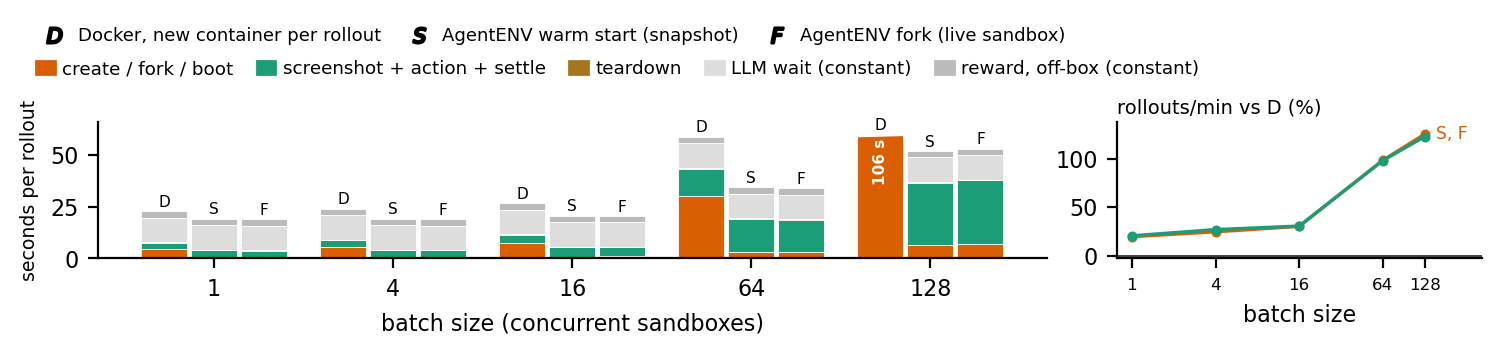
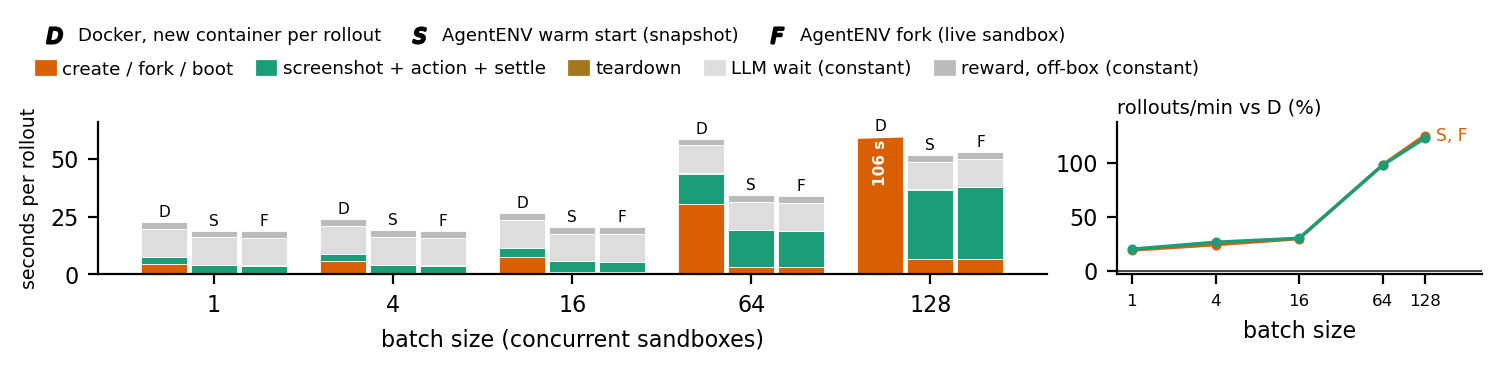
report: shorter, conclusion-first text and merged action call in Figure 3
Removes the plan section, states conclusions instead of repeating numbers
that the figures already show, rewrites the comparison of GUI and CLI
results as one causal explanation, and merges the action call and the wait
for its effect into one component in Figure 3.

diff --git a/report/report_en_agentenv_short_sep_19.md b/report/report_en_agentenv_short_sep_19.md
@@ -4,74 +4,74 @@
 
 ## 1. AgentENV features and SWE-bench results
 
-- [AgentENV](https://github.com/kvcache-ai/AgentENV) is the open-source sandbox service used for Kimi K3's agentic RL. It provides one Firecracker microVM per sandbox through an E2B-compatible API and stores every disk and memory image as copy-on-write layers.
-- **Two restore methods.** Both use the same restore procedure: a pre-spawned VM, with memory pages loaded on demand from one shared host copy.
-    - **Warm start from a snapshot (S).** A snapshot checkpoints a sandbox (memory + disk) once, in advance. Each rollout restores a new sandbox from it, replacing boot + task setup for states known in advance, such as a GRPO group at step 0.
-    - **Fork of a live sandbox (F).** Fork captures a running sandbox and restores N children while the source keeps running. It replaces prefix replay in N new sandboxes for states available only at run time, such as branching within a trajectory (tree rollouts).
-- **Cold start (C)** boots a new VM from the container image without a snapshot. **Pause/resume** releases RAM and CPU during the LLM wait (not evaluated here).
+- [AgentENV](https://github.com/kvcache-ai/AgentENV) is the open-source sandbox service for Kimi K3's agentic RL. It provides one Firecracker microVM per sandbox through an E2B-compatible API and stores disk and memory images as copy-on-write layers.
+- **Both restore methods use a pre-spawned VM** that loads memory pages on demand from one shared host copy.
+    - **AgentENV warm start (S) restores a snapshot**, a checkpoint of a sandbox's memory and disk captured once in advance. Each rollout restores a new sandbox from it, replacing boot + task setup for states known beforehand, such as a GRPO group at step 0.
+    - **AgentENV fork (F) captures a live sandbox** and restores N children while the source runs. It replaces prefix replay for states available only at runtime, such as a branch point in the middle of a trajectory (tree rollouts).
+- **AgentENV cold start (C) boots a new VM** from the container image without a snapshot. Pause/resume releases RAM and CPU during LLM waits, but was not evaluated.
 
 **Experiment**
 
-- **Workload.** A SWE-bench Verified task django 10880 rollout has 5 agent steps. Each step is a 3 s LLM wait followed by one shell tool call. Step 4 applies the fix. B rollouts start together on all 20 cores, B = 1 to 256, 3 rounds per point.
-- **Docker baseline (D).** Each rollout uses a new container. We prepare the image with `docker commit` after running the task's tests once in a container, preserving build products and caches. We take the AgentENV snapshot at the same point. A rollout uses `docker run`, one `docker exec` per tool call, then `docker rm`. This is the strongest container baseline, but a Docker image stores only files, not running processes.
-- **Tree rollouts.** One trunk runs 3 steps (tests in the third), then B branches run 3 more steps each. D and S must first replay the trunk in every branch. F forks the trunk (B = 256: 1 round).
-- **Fixed times.** The LLM wait (15 s) and reward time (3 s) are constants. The LLM and reward computation run on other servers, as in most RL systems: judges on GPU clusters, test-based rewards in a separate or forked evaluation sandbox.
-- **Verification.** Every rollout is verified by its final diff hash. The official grader marked that diff resolved. Of 8,817 rollouts, the only failures are 9 cold starts whose sandbox did not start.
+- Each SWE-bench Verified django 10880 rollout has 5 steps. Each step is a 3 s LLM wait followed by one shell tool call. Step 4 applies the fix. B rollouts start together on 20 cores, with B = 1 to 256 and 3 rounds per point.
+- **Docker (D) creates a new container per rollout.** After tests run once, `docker commit` preserves build products and caches. We snapshot AgentENV at the same point. Rollouts use `docker run`, one `docker exec` per tool call, then `docker rm`. This is the strongest container baseline, but images store files, not running processes.
+- Tree rollouts run a trunk of 3 steps, with tests in the third, then B branches of 3 steps each. D and S first replay the trunk in every branch. F forks it, with 1 round at B = 256.
+- LLM wait and reward time are fixed at 15 s and 3 s per rollout. As in most RL systems, LLM and reward computation run elsewhere: judges use GPU clusters, and test-based rewards use separate or forked evaluation sandboxes.
+- We verify every rollout by its final diff hash. The official grader marked that diff resolved. Among 8,817 rollouts, only 9 cold starts failed to start their sandboxes.
 
 ![](agentenv_sep_19/figures/swe_scale.png)
 
-*Figure 1. Left: median rollout time by phase. Bars cut at the axis limit show their totals. Right: rollouts/min relative to D, for S at step 0 and F in tree rollouts.*
+*Figure 1. The left shows median rollout time by phase and totals for truncated bars. The right shows throughput relative to D for S at step 0 and F in tree rollouts.*
 
 **Results**
 
-- **Docker (D) matches AgentENV at small batches.** For rollouts starting at step 0, performance is within 4% up to B = 16. A command-line (CLI) sandbox is ready in 0.2 to 0.7 s on either system, compared with 15 s of LLM wait.
-- **Warm start (S) benefits large batches only.** Throughput gains over D are +8% (B = 64), +15% (128), +19% (256). At B = 128, Docker's creation and removal bursts take 3.1 s + 2.0 s per rollout, compared with AgentENV's 1.9 s + 0.06 s.
-- **Fork (F) matches warm start at step 0** up to B = 128 (within 2 points). At 256 its gain over D is smaller (+10% against +19%). Each fork call allows at most 100 children, so we issued 4 sequential calls. Tool calls in forked sandboxes were also slower (2.8 s against 1.8 s per rollout).
-- **Fork (F) improves tree rollout throughput.** All branches are ready in 0.6 to 2.5 s, compared with 3 to 27 s for replay up to B = 128 (6.9 s versus 56 s at 256). Rollouts/min increase over D by **+8% to +11% (B ≤ 16), +44% (64), +84% (128), +139% (256)**.
-- **Cold start (C) is slower than Docker.** It is 6% to 15% slower up to B = 64, 23% at 128, 44% at 256, where it needs 80 GB. It also uses the original, unprepared image.
-- **Tool calls are slower on AgentENV.** At B = 128, a tool call takes 0.12 s (p95 1.0 s), compared with 0.07 s (p95 0.13 s) on Docker.
-- **Capacity (one probe).** After raising the kernel's `ublk` device limit, 511 of 512 CLI sandboxes ran in 22 GB. The default device limit, 64, allows about 60 sandboxes.
+- **For rollouts that start at step 0, D matches AgentENV within 4% up to B = 16.** Command-line (CLI) startup is short relative to LLM wait (Figure 1).
+- **S benefits large batches only**, increasing throughput up to +19% over D. At large batches Docker's container creation and removal take longer than AgentENV's restore and deletion (Figure 1, left).
+- **F matches S at step 0** up to B = 128, within 2 points. At B = 256, it gains less over D (+10% against +19%). We issued 4 sequential fork calls, each limited to 100 children. Tool calls were also slower in forked sandboxes (2.8 s against 1.8 s per rollout).
+- **F improves tree rollout throughput by up to +139% over D.** Branches become ready sooner than with replay (Figure 1).
+- **C is slower than Docker** and needs 80 GB at B = 256. It also uses the original, unprepared image (Figure 1).
+- **Tool calls are slower on AgentENV.** At B = 128, latency is 0.12 s (p95 1.0 s), against Docker's 0.07 s (p95 0.13 s).
+- In one probe, 511 of 512 CLI sandboxes ran in 22 GB after we raised the kernel's `ublk` device limit. The default limit of 64 allows about 60 sandboxes.
 
 ## 2. Blender computer-use agents (CUAs) on AgentENV
 
 <img class="shot" align="right" width="33%" src="agentenv_sep_19/figures/blender_gui_firecracker.png">
 
-- **AgentENV requires changes on this host to run Blender's GUI.** It runs the GUI after these three changes:
-    - **A 20-line server patch** (`AENV_STATIC_CPU_CONFIG_PATH`) enables SVE/PAC features that AgentENV's default guest CPU does not provide. Without them, Blender's GUI crashes with an illegal instruction.
-    - **A GUI template.** AgentENV never runs the image entrypoint, so the template's start command launches a virtual X server (Xvfb), Blender and our screenshot/action server. The capture preserves these running processes. A *task snapshot* with the scene loaded is the reset point.
-    - **A proxy client** connects to the in-guest server through AgentENV's HTTP proxy.
-- **Display support.** Firecracker has no display device. The guest runs the GUI on Xvfb using software OpenGL. Right: the 1280×800 PNG an agent sees 1 s after sandbox restore.
-- **Restore and readiness.** Warm start and fork work unchanged because they capture the whole VM without requiring the application to participate. Readiness requires *Blender to answer*, not merely *the API to return*.
+- **AgentENV requires three changes on this host to run Blender's GUI.**
+    - A 20-line server patch (`AENV_STATIC_CPU_CONFIG_PATH`) enables SVE/PAC features absent from AgentENV's default guest CPU. Without them, Blender's GUI crashes with an illegal instruction.
+    - Since AgentENV never runs image entrypoints, a GUI template launches Xvfb, Blender and our screenshot/action server. The snapshot preserves these processes. A task snapshot with the scene loaded is the reset point.
+    - A proxy client connects to the guest server through AgentENV's HTTP proxy.
+- Firecracker has no display device, so the guest uses Xvfb and software OpenGL. The screenshot shows the 1280×800 PNG an agent sees 1 s after restore.
+- **AgentENV warm start (S) and AgentENV fork (F) work unchanged** because they capture the whole VM without application participation. Readiness requires *Blender to answer*, not merely *the API to return*.
 
 **Experiment**
 
-- **Workload.** A BlenderGym `placement1` rollout has 4 steps. Each step is screenshot → 3 s LLM wait → action → state check → 0.3 s settle. Steps 1 and 3 use real mouse and keyboard input (click, A, G, X, "0.05", Enter). Steps 2 and 4 use `blender_python` calls.
-- **Docker baseline (D).** As in section 1, each rollout uses a new container. The image stores Blender and task files but no running Blender process. Each container therefore boots Xvfb + Blender and loads the task.
-- **Coverage.** B = 1 to 128, one round per point. All 639 rollouts are verified against expected object positions. Cold start was not run because it adds a VM boot to D's GUI boot.
+- Each BlenderGym `placement1` rollout has 4 steps. Each step is screenshot → 3 s LLM wait → action → state check → 0.3 s settle. Steps 1 and 3 use mouse and keyboard input (click, A, G, X, "0.05", Enter). Steps 2 and 4 use `blender_python`.
+- **Docker (D) creates a new container per rollout.** Its image stores Blender and task files, but no running Blender process. Each container boots Xvfb + Blender and loads the task.
+- We tested B = 1 to 128, one round per point, and verified all 639 rollouts against expected object positions. Cold start was omitted because it adds VM boot to D's GUI boot.
 
 ![](agentenv_sep_19/figures/cua_scale.png)
 
-*Figure 2. Same layout and methods as Figure 1 (no cold start).*
+*Figure 2. The layout and methods match Figure 1, without cold start.*
 
 **Results**
 
-- **Warm start (S) removes GUI boot time.** Throughput gains over D from the task snapshot grow with batch size: **+20% (B = 1), +30% (16), +99% (64), +125% (128)**. Fork (F) performs the same.
-    - A Docker GUI sandbox that starts alone is ready in 4.5 s. Readiness takes 7.6 s at B = 16, 30 s at 64 and 67 s at 128. Each boot costs about 10 core-seconds, so concurrent boots queue on the 20 cores. AgentENV needs 0.7 / 0.9 / 3.2 / 6.6 s, respectively.
-- **Shared snapshot pages increase GUI sandbox density.** For 128 sandboxes, AgentENV needs 25 GB compared with Docker's 66 GB.
+- **S removes GUI boot time.** Throughput gains over D grow with batch size, reaching +125%. F performs the same (Figure 2).
+    - Concurrent Docker GUI boots queue on 20 cores, delaying readiness, because each costs about 10 core-seconds (Figure 2).
+- **Shared snapshot pages increase GUI sandbox density.** For 128 sandboxes, AgentENV needs 25 GB against Docker's 66 GB.
 
 ## 3. Discussion of the Blender results
 
-- CPU queueing of software-rendered GUI work makes Figure 2's green phase (screenshot + action + settle) longer as batch size increases.
-    - **Step cost.** In one sandbox without contention (4 vCPUs), a screenshot costs 0.05 core-seconds, a `blender_python` edit plus redraw costs 0.5 core-seconds, and a mouse and keyboard action (a click and 5 key events) costs 2.2 core-seconds in 0.8 s of wall time. After every input event, Blender redraws its whole 1280×800 interface with software OpenGL on all 4 vCPUs.
-    - **Average cost.** Rollouts alternate the two action types, averaging about 1.4 core-seconds per step and about 5.6 core-seconds per rollout of 4 steps.
-    - **Synchronized actions.** The fixed 3 s LLM latency makes all B sandboxes act at the same moment. At B = 16 the host CPU reaches 100% for about 2 s each step and is mostly idle between steps. From B = 64 it remains at 100% throughout the batch (Figure 3, right).
-    - **Queue model and measurements.** The model, step time = B × 1.4 core-seconds / 20 cores, predicts 1.1 s (B = 16), 4.5 s (64) and 9.0 s (128). Measured times are 1.2 s, 4.0 s and 7.5 s, respectively (Figure 3, left).
-    - **Step components.** The action call, measured until its effect is visible in Blender's state, grows the most (Figure 3, left). This growth is a GUI cost, not a sandbox management cost, and the green phase also grows on Docker.
-- **Throughput limit.** The measured cost of 5.6 core-seconds per rollout gives a computed upper limit of about 210 rollouts of 4 steps per minute on 20 cores, for any sandbox system. We measured 140 rollouts/min for warm start at B = 128. Restore costs about 1 core-second per sandbox, against about 10 for a Docker GUI boot, determining how much CPU remains available for steps.
-- **GUI and CLI results in Figures 1 and 2 differ for two reasons.**
-    - **Prepared state.** A CLI task's prepared state is files, which a Docker image stores. A GUI task's is a running application and display server, which an image cannot store. Thus D matches AgentENV up to B = 16 in Figure 1 but is slower at every batch size in Figure 2.
-    - **Startup time.** GUI boot takes 20× as long (4.5 s against 0.2 s), so warm start and fork benefit GUI rollouts from B = 1 (CLI from B ≥ 32).
+- **CPU queueing lengthens the green phase in Figure 2** (screenshot + action + settle) as batches grow.
+    - Without contention, in one sandbox with 4 vCPUs, a screenshot costs 0.05 core-seconds, a `blender_python` edit plus redraw costs 0.5 core-seconds, and a click plus 5 key events costs 2.2 core-seconds in 0.8 s of wall time. After every event, Blender redraws its whole 1280×800 interface using software OpenGL on all 4 vCPUs.
+    - Rollouts alternate actions, averaging about 1.4 core-seconds per step and 5.6 core-seconds per rollout of 4 steps.
+    - The fixed 3 s LLM wait synchronizes actions. At B = 16 the host CPU is briefly fully used each step and mostly idle between steps. From B = 64 it is fully used throughout the batch (Figure 3, right).
+    - A simple queue model reproduces measured growth in step time: step time = B × 1.4 core-seconds / 20 cores (Figure 3, left).
+    - Time until the action call's effect appears in Blender's state grows most (Figure 3, left). This is a GUI cost, not sandbox management. Docker's green phase also grows.
+- **Any sandbox system's computed upper limit on 20 cores is about 210 rollouts/min**, given 5.6 core-seconds per rollout of 4 steps. Warm start reached 140 rollouts/min at B = 128. Restore costs about 1 core-second per sandbox, against about 10 for Docker GUI boot. The restore cost determines how much CPU remains for steps.
+- **Warm start and fork help all GUI batches, but only large CLI batches.** The cause is the work that Docker must repeat for every rollout.
+    - A CLI task's prepared state is files, which a Docker image stores. Containers are ready in 0.2 s, so Docker matches AgentENV up to B = 16 (Figure 1). Warm start and fork increase CLI throughput only from B ≥ 32.
+    - A GUI task's prepared state is a running application and display server, which an image cannot store. Each container boots Xvfb + Blender and loads the task in 4.5 s and about 10 core-seconds. Restore takes 0.7 s and about 1 core-second. Docker is slower at every batch size. The difference grows with B because concurrent boots queue on the 20 cores (Figure 2).
 
 ![](agentenv_sep_19/figures/gui_step_cost.png)
 
-*Figure 3. Left: mean time per GUI step by component for S, with the CPU queue model. Right: host CPU use over time for S at B = 16 and B = 64.*
+*Figure 3. The left shows mean GUI step times by component for AgentENV warm start (S) and the CPU queue model. The right shows host CPU use for S at B = 16 and B = 64.*
